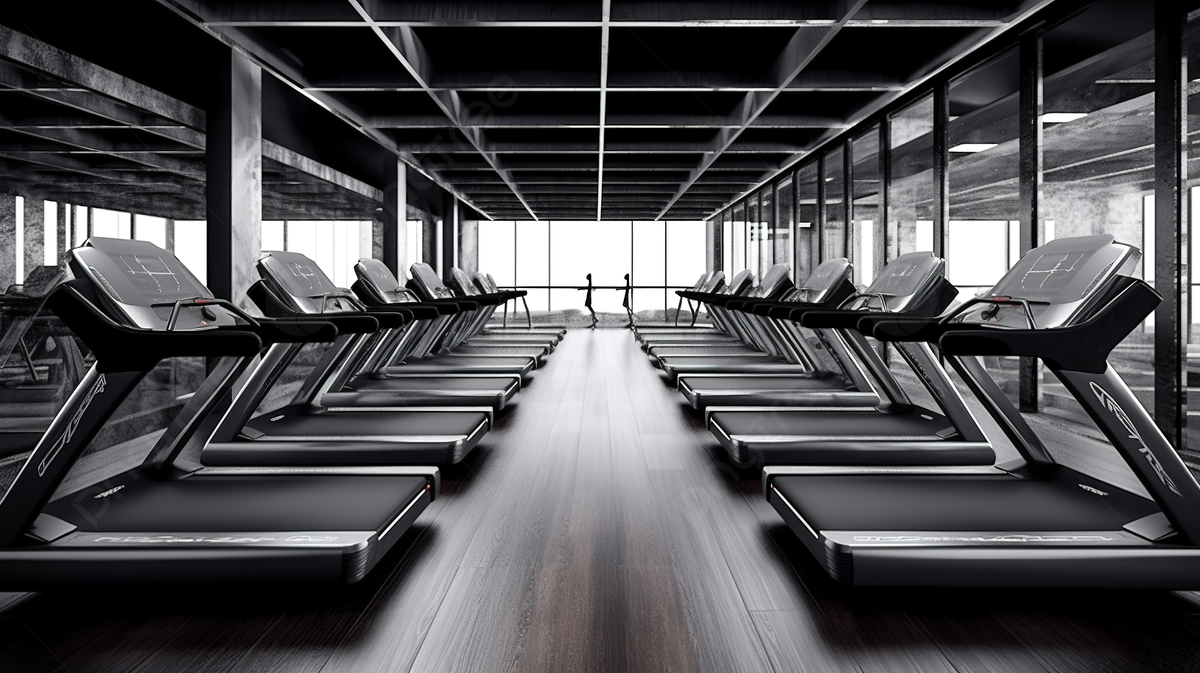
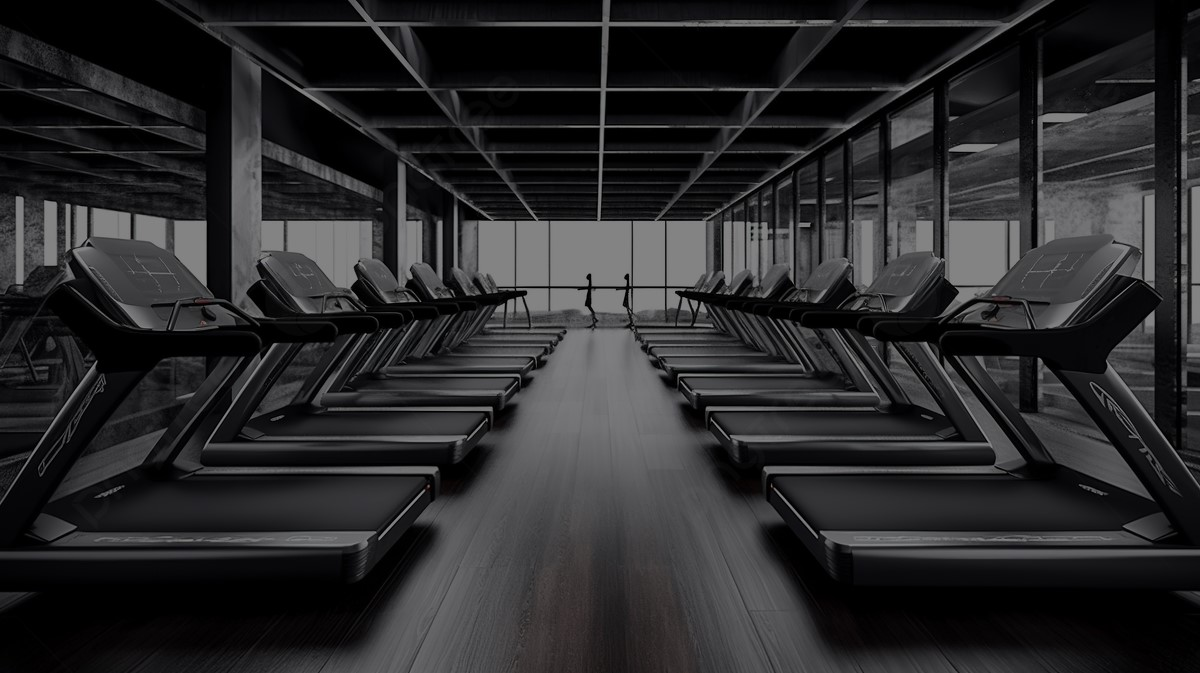
treino

diff --git a/Férias/treino/treino.html b/Férias/treino/treino.html
@@ -1,31 +1,72 @@
 <!DOCTYPE html>
-<html lang="en">
+<html lang="pt-br">
 <head>
     <meta charset="UTF-8">
     <meta name="viewport" content="width=device-width, initial-scale=1.0">
-    <title>Treinão</title>
+    <title>Treinão Boladão</title>
     <link rel="stylesheet" href="treino.css">
 </head>
 <body>
-
-    <header>
-        <div class="topo">
+    <div class="imagem-container">
+        <img src="../img/academia1.jpg" alt="Imagem de fundo" class="imagem-fundo">
+        <div class="texto-canto">
             <h1>Treinão Boladão</h1>
-            <p>Durante as férias até agora , fiz esse treino:</p>
+            <p>Durante as férias até agora, fiz esse treino:</p>
         </div>
-    </header>
+    </div>
 
-
-    <main>
-        <div class="treinos">
-
-            <div class="treino1">aaaa</div>
-            <div class="treino1">aaa</div>
-            <div class="treino3">aa</div>
-            <div class="treino4">a</div>
-
+    <div class="cartoes-container">
+        <div class="cartao">
+            <h3>Push</h3>
+            <ul>
+                <li>Francês Corda / 3 Séries 6 - 8 reps</li>
+                <br>
+                <li>Supino Reto Maq / 3 Séries 4 - 6 rep</li>
+                <br>
+                <li>Cruxifixo polia / 3 Séries 6 - 8 rep</li>
+                <br>
+                <li>Voador maq / 3 Séries 6 - 8 rep</li>
+                <br>
+                <li>Desenvolvimento Smith / 3 Séries 4 - 6 rep</li>
+                <br>
+                <li>Elevação Lateral / 3 Séries 6 - 8 rep</li>
+            </ul>
         </div>
-    </main>
-
+        <div class="cartao">
+            <h3>Pull</h3>
+            <ul>
+                <li>Puxada Alta Romana / 3 Séries 4 - 6  rep</li>
+                <br>
+                <li>Remada Unilateral / 3 Séries 4 - 6 reps</li>
+                <br>
+                <li>Pulldown / 3 Séries 6 - 8 reps</li>
+                <br>
+                <li>Rosca banco 45° / 3 Séries 4 - 6 reps</li>
+                <br>
+                <li>Panturrilha em pé / 3 séries 8 - 10 reps</li>
+            </ul>
+        
+        </div>
+        <div class="cartao">
+            <h3>Legs</h3>
+            <ul>
+                <li>Agachamento Hack / 3 Séries 4 - 6 reps</li>
+                <br>
+                <li>Bulgaro / 3 séries 4 - 6 reps</li>
+                <br>
+                <li>Mesa Flexora / 4 Séries 4 - 6 reps</li>
+                <br>
+                <li>Cadeira Extensora / 4 Séries 6 - 8 reps</li>
+                <br>
+                <li>cadeira flexora / 4 séries 6 - 8 reps</li>
+                <br>
+                <li>Panturrilha em pé / 3 séries 8 - 10 reps</li>
+            </ul>
+        </div>
+        <div class="cartao">
+            <h3>Treino 4</h3>
+            <p>Descrição do treino 4</p>
+        </div>
+    </div>
 </body>
 </html>

diff --git a/Férias/treino/treino.css b/Férias/treino/treino.css
@@ -1,51 +1,69 @@
-*{
-    padding: 0;
+* {
     margin: 0;
-}
-body{
-    display: flex;
-    height: 100vh;
-    flex-direction: column;
+    padding: 0;
+    box-sizing: border-box;
 }
 
-header{
-    background-image: url(../img/academia1.jpg);
-    background-size: cover;
-    background-repeat: no-repeat;
+body {
+    font-family: Arial, sans-serif;
+}
+
+.imagem-container {
+    position: relative;
     width: 100%;
-    height: 90%;
+    height: 100vh;
+}
+
+.imagem-fundo {
+    width: 100%;
+    height: 100%;
+    object-fit: cover;
+    position: absolute;
+    top: 0;
+    left: 0;
+}
+
+.texto-canto {
+    position: absolute;
+    bottom: 20px;
+    left: 20px;
+    color: white;
+    margin-bottom: 60px;
+    margin-left: 20px;
+}
+
+.texto-canto h1 {
+    font-size: 3rem;
+    margin-bottom: 10px;
+}
+
+.texto-canto p {
+    font-size: 1.5rem;
+}
+
+.cartoes-container {
     display: flex;
+    justify-content: space-around;
+    margin-top: 20px;
+    padding: 20px;
+    background-color: #f4f4f4;
 }
 
-.topo{
-    display: flex;
-    color: aliceblue;
-    flex-direction: column;
-    justify-content: end;
-    margin-bottom: 200px;
-    margin-left: 40px;
-    font-size: 20px;
+.cartao {
+    background-color: #fff;
+    border: 1px solid #ddd;
+    padding: 20px;
+    width: 20%;
+    text-align: center;
+    border-radius: 10px;
 }
 
-
-.topo h1{
-    font-size: 70px;
+.cartao h3 {
+    font-size: 1.5rem;
+    margin-bottom: 10px;
 }
 
-
-.treinos{
-    gap: 20px;
-    display: flex;
-    flex-direction: row;
-    align-items: center;
-    justify-content: center;
-    margin-top: 100px;
-}
-
-.treino1 , .treino2 , .treino3 , .treino4{
-    background-color: bisque;
-    max-width: 500px;
-    max-height: 700px;
-    height: 700px;
-    width: 450px;
+.cartao p {
+    font-size: 1rem;
+    color: #666;
 }
